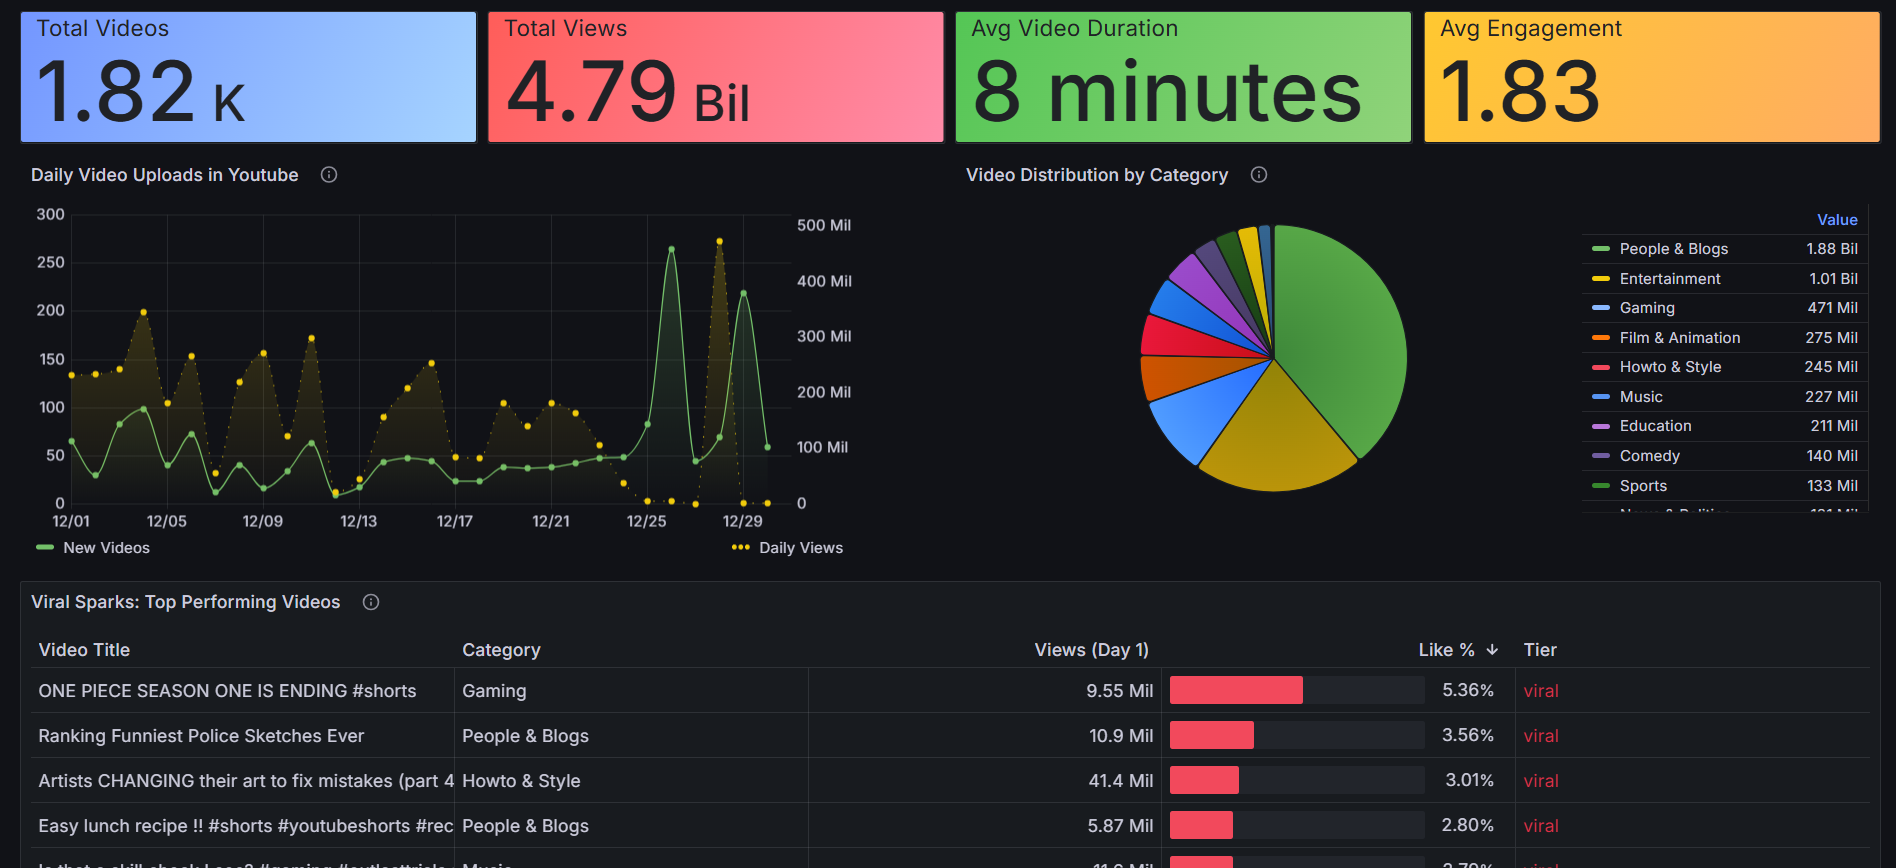
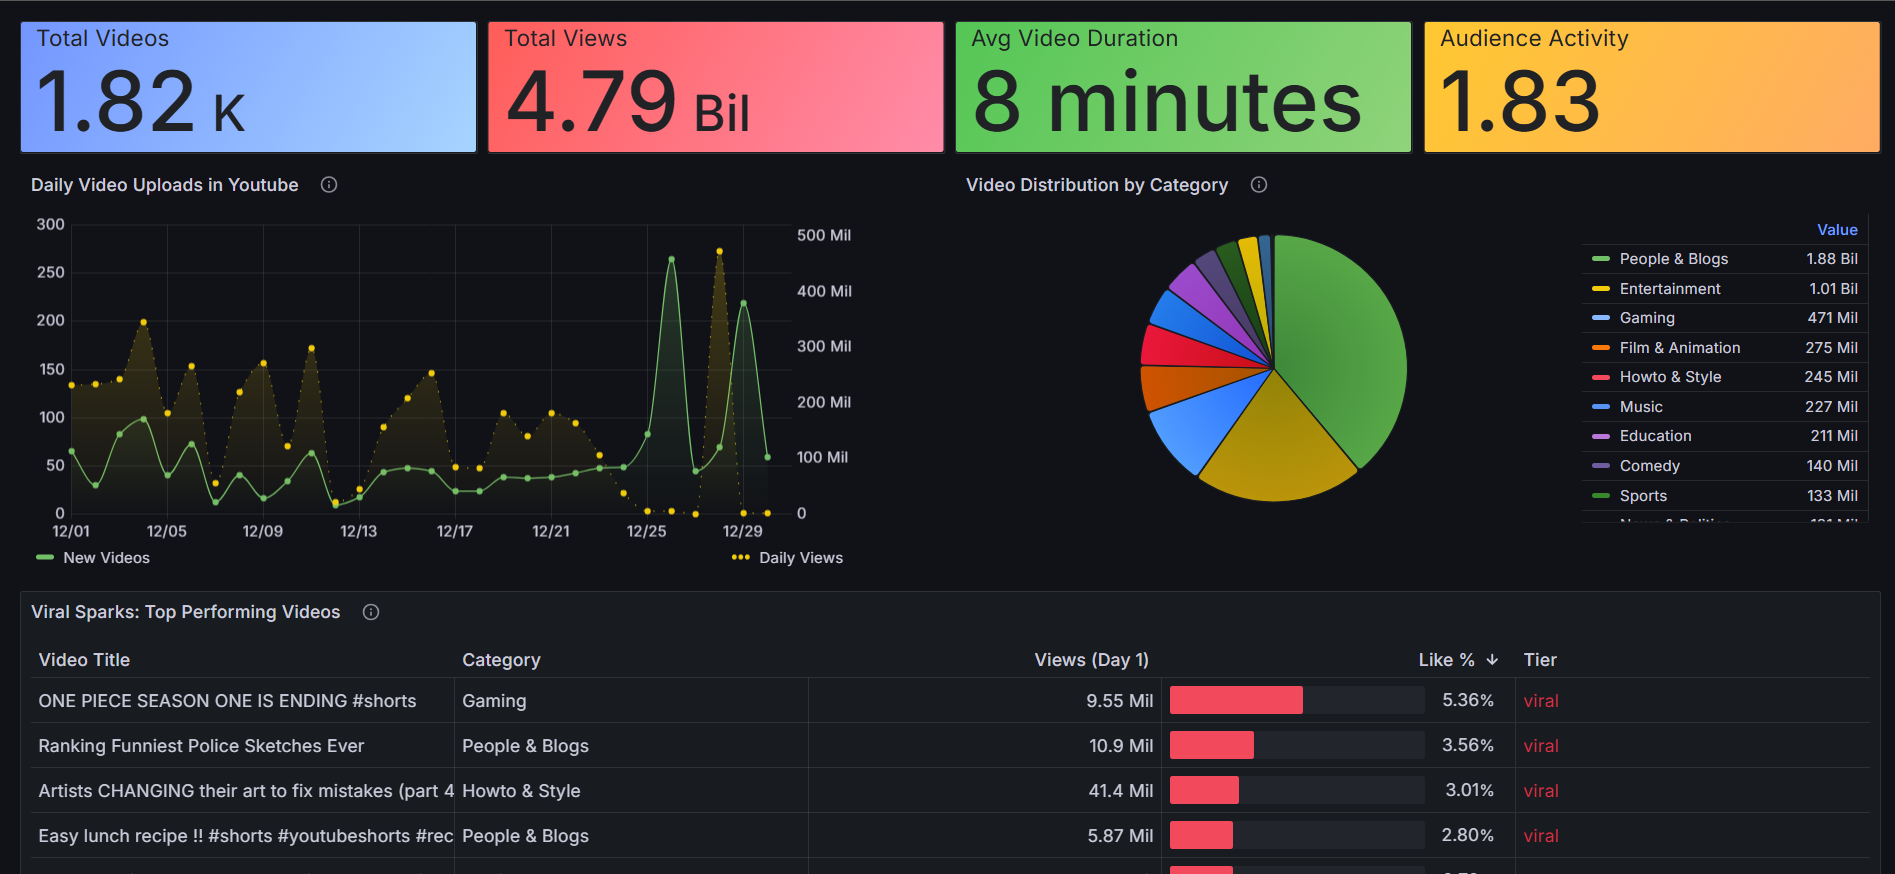
update Readme

diff --git a/README.md b/README.md
@@ -130,8 +130,8 @@ Interactive dashboards built on top of ClickHouse:
 
 - **Total Videos**
 - **Total Views**
-- **Average Engagement**
-- **Avgerage Video Duration**
+- **Average Video Duration**
+- **Average Audience Activity**
 
 ### 📈 Time Series
 
